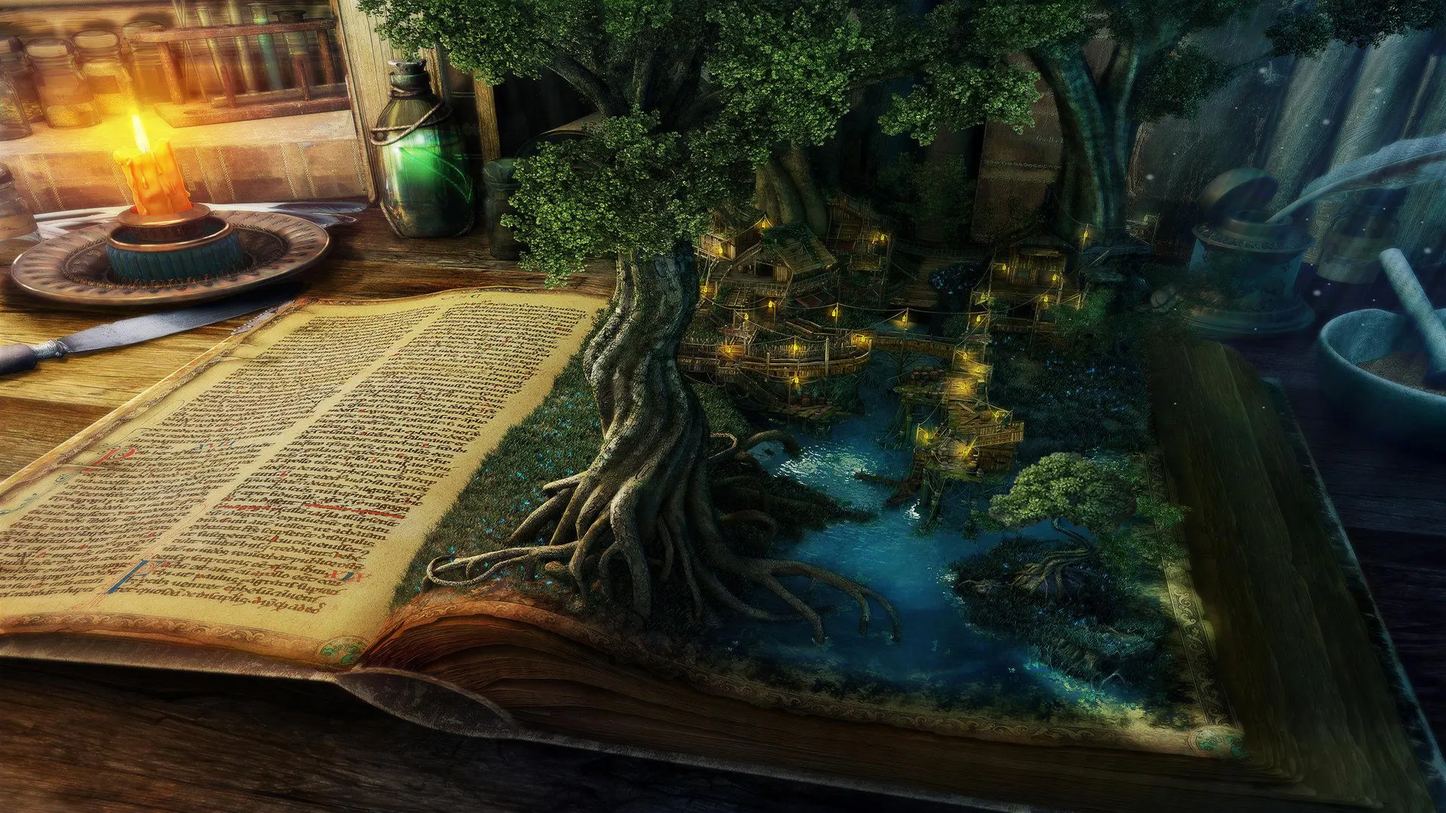
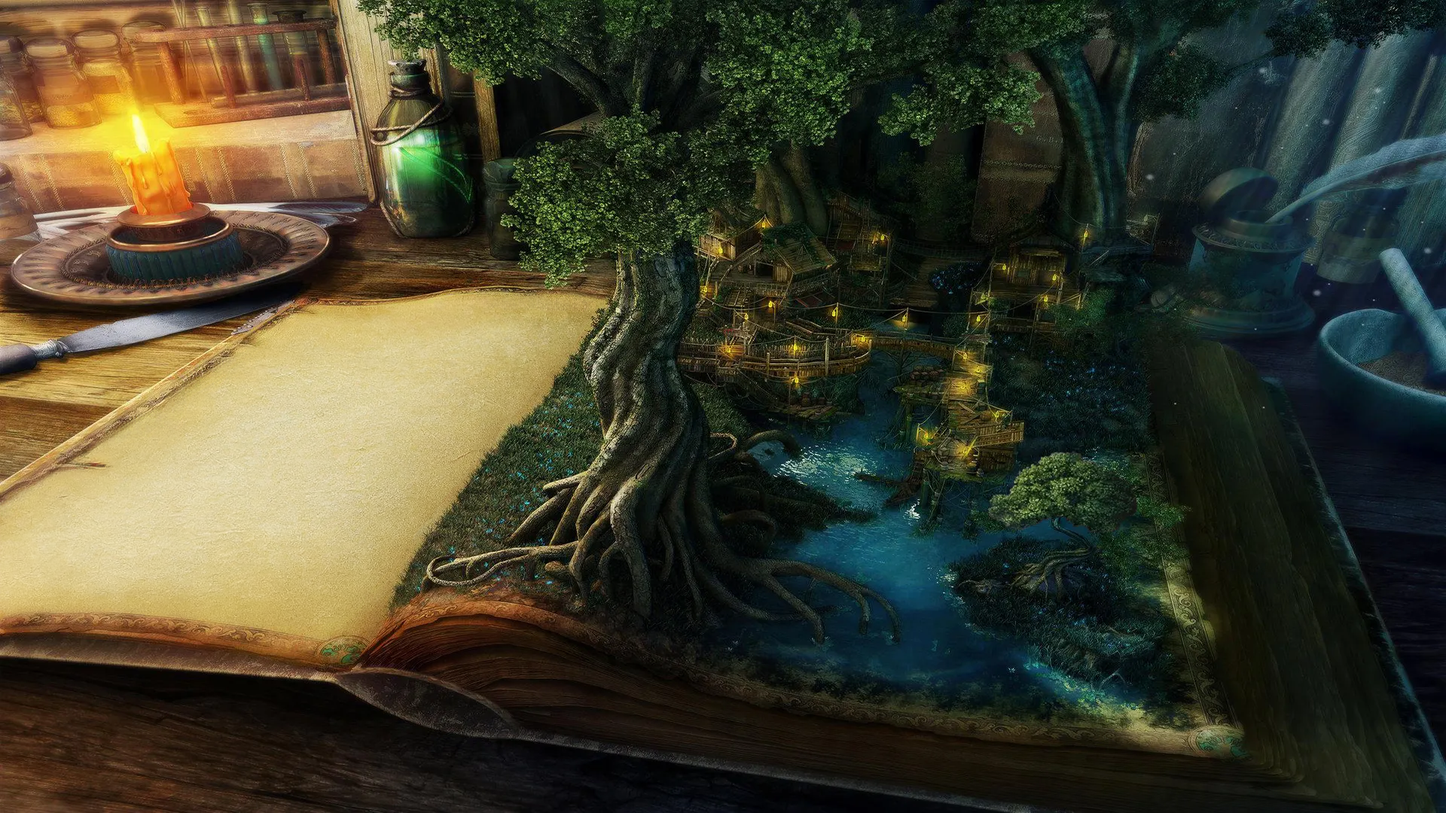
feat/fix: fixed the foliage wind and the candle flame effects that were no longer working due to the implementation of the character tint. Modified the base image to remove all characters. The idea is to implement a spatial UI on the surface of the page!

Changed region(s): [[0.0, 0.3667, 0.4062, 0.7639]]

diff --git a/js/base-effect.js b/js/base-effect.js
@@ -67,6 +67,9 @@ const log = (...args) => {
     }
 };
 
+/** Coarse area overlays (e.g. foliage, character tint) sit slightly toward the camera for stable depth tests; XY scale is corrected in syncWithParallaxMesh so framing matches the main parallax plane. */
+export const PARALLAX_COARSE_OVERLAY_Z = 0.012;
+
 class BaseEffect {
     constructor(scene, camera, renderer, parallaxInstance) {
         log('BaseEffect: Initializing base effect');
@@ -432,12 +435,26 @@ class BaseEffect {
      * Applies the current parallax mesh transform (position, scale) to the given mesh.
      * Call this from update() or from updatePositionsForMeshTransform(meshTransform) so the overlay stays aligned with the background.
      * @param {THREE.Mesh} mesh - The area effect overlay mesh to sync
+     * @param {object} [options]
+     * @param {number} [options.overlayZ=0] - Added to mesh.position.z (after parallax root z). Use PARALLAX_COARSE_OVERLAY_Z for foliage / character tint.
+     * @param {boolean} [options.perspectiveCompensate=true] - When overlayZ ≠ 0, scale XY by (camZ−baseZ−overlayZ)/(camZ−baseZ) so apparent size matches the unshifted plane (removes subtle “zoom”).
      */
-    syncWithParallaxMesh(mesh) {
+    syncWithParallaxMesh(mesh, options = {}) {
         if (!mesh || !this.parallax || !this.parallax.meshTransform) return;
         const t = this.parallax.meshTransform;
-        mesh.position.set(t.position.x, t.position.y, t.position.z);
-        const s = t.scale;
+        const overlayZ = Number(options.overlayZ) || 0;
+        mesh.position.set(t.position.x, t.position.y, t.position.z + overlayZ);
+        let s = t.scale;
+        const compensate = options.perspectiveCompensate !== false;
+        if (overlayZ !== 0 && compensate && this.camera?.position) {
+            const camZ = this.camera.position.z;
+            const baseZ = t.position.z;
+            const farDist = camZ - baseZ;
+            const nearDist = camZ - baseZ - overlayZ;
+            if (farDist > 1e-6 && nearDist > 1e-3) {
+                s *= nearDist / farDist;
+            }
+        }
         mesh.scale.set(s, s, 1);
     }
     

diff --git a/assets/ParallaxBackgrounds/bg2/character-mask-tint.js b/assets/ParallaxBackgrounds/bg2/character-mask-tint.js
@@ -4,7 +4,7 @@
 // opaque pixels, so alpha is not the strength channel. Use maskChannel "alpha" when transparency
 // encodes soft edges; "red" for water-style single-channel in R only.
 
-import BaseEffect from '../../../js/base-effect.js';
+import BaseEffect, { PARALLAX_COARSE_OVERLAY_Z } from '../../../js/base-effect.js';
 import * as THREE from 'https://unpkg.com/three@0.172.0/build/three.module.js';
 
 const log = (...args) => {
@@ -85,8 +85,7 @@ class CharacterMaskTintEffect extends BaseEffect {
         this.tintColor = this.parseColor(c.tintColor ?? '0x88ccff');
         this.tintStrength = c.tintStrength ?? 0.85;
         this.opacity = c.opacity ?? 1.0;
-        this.depthBias = Number.isFinite(Number(c.depthBias)) ? Number(c.depthBias) : 0;
-        // false = skip depth test: same Z as bg plane avoids "zoom" from perspective; no z-fighting on letters.
+        // false = skip depth test (draw order handles stacking). Z in update() matches foliage-wind coarse overlay.
         this.useDepthTest = c.useDepthTest === true;
         this.overlaySegments = c.overlaySegments ?? 128;
         // Default luminance: many masks use black RGB = off / white = on with A=255 on all opaque pixels.
@@ -187,13 +186,7 @@ class CharacterMaskTintEffect extends BaseEffect {
 
         this.syncUniformsFromConfig(this.getConfig());
 
-        this.syncWithParallaxMesh(this.overlayMesh);
-        const t = this.parallax?.meshTransform;
-        if (t) {
-            const cfg = this.getConfig();
-            const bias = Number.isFinite(Number(cfg.depthBias)) ? Number(cfg.depthBias) : this.depthBias;
-            this.overlayMesh.position.z = t.position.z + bias;
-        }
+        this.syncWithParallaxMesh(this.overlayMesh, { overlayZ: PARALLAX_COARSE_OVERLAY_Z });
 
         const mat = this.overlayMesh.material;
         if (mat) {

diff --git a/assets/ParallaxBackgrounds/bg2/foliage-wind.js b/assets/ParallaxBackgrounds/bg2/foliage-wind.js
@@ -2,7 +2,7 @@
 // Uses grayscale mask for per-pixel wind influence, wind envelope for natural blow/calm cycles,
 // and back-and-forth mouse/touch tracking for interactive rustling with falling leaves.
 
-import BaseEffect from '../../../js/base-effect.js';
+import BaseEffect, { PARALLAX_COARSE_OVERLAY_Z } from '../../../js/base-effect.js';
 import FoliageParticleEmitter from './foliage-particle-emitter.js';
 import * as THREE from 'https://unpkg.com/three@0.172.0/build/three.module.js';
 
@@ -955,7 +955,10 @@ class FoliageWindEffect extends BaseEffect {
                     depthWrite: false
                 }
             );
-            this.overlayMesh.position.z = 0.012;
+            // After character-mask-tint (renderOrder 1): tint uses depthTest false and samples undistorted UVs,
+            // so if it draws last it replaces wind with a static map in masked regions and looks misaligned at edges.
+            this.overlayMesh.renderOrder = 2;
+            this.syncWithParallaxMesh(this.overlayMesh, { overlayZ: PARALLAX_COARSE_OVERLAY_Z });
 
             // Particle emitter for falling leaves
             const leafConfig = config.leafParticles || {};
@@ -1021,8 +1024,7 @@ class FoliageWindEffect extends BaseEffect {
         }
         this._updateAmbientLeafFall(dt, config);
 
-        this.syncWithParallaxMesh(this.overlayMesh);
-        this.overlayMesh.position.z = 0.012;
+        this.syncWithParallaxMesh(this.overlayMesh, { overlayZ: PARALLAX_COARSE_OVERLAY_Z });
     }
 
     cleanup() {
